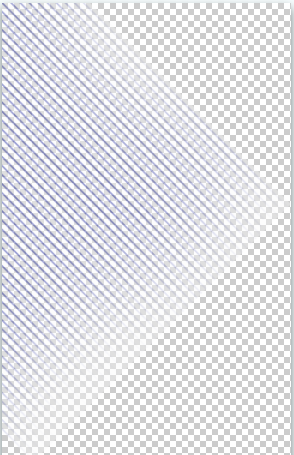
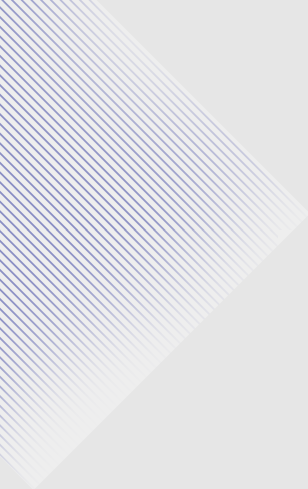
change of images

diff --git a/public/index.html b/public/index.html
@@ -166,7 +166,7 @@
 <section class="main-slider" style="background-image:url(/images/background/1.png)">
     <div class="main-slider-carousel owl-carousel owl-theme">
         
-        <div class="slide slide-one" style="background-image:url(/images/main-slider/1.png)">
+        <div class="slide slide-one" style="background-image:url(/images/main-slider/3.png)">
             <div class="auto-container">
                 <div class="content">
                     <h1>Our finance can give more <br> possiblities of <span>business</span></h1>
